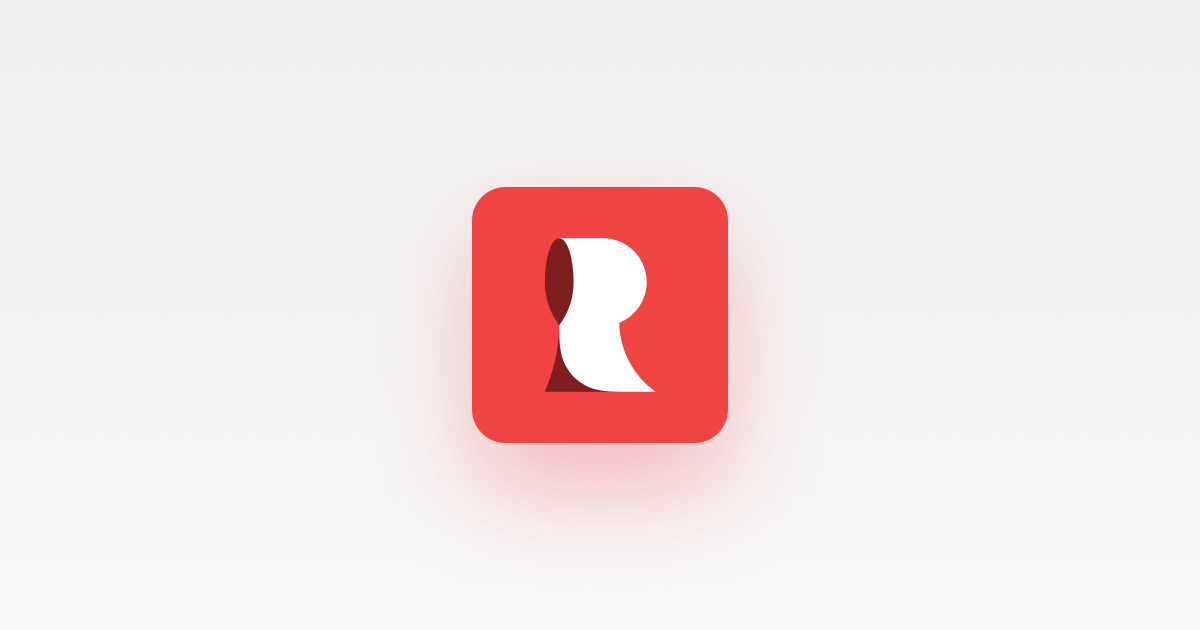
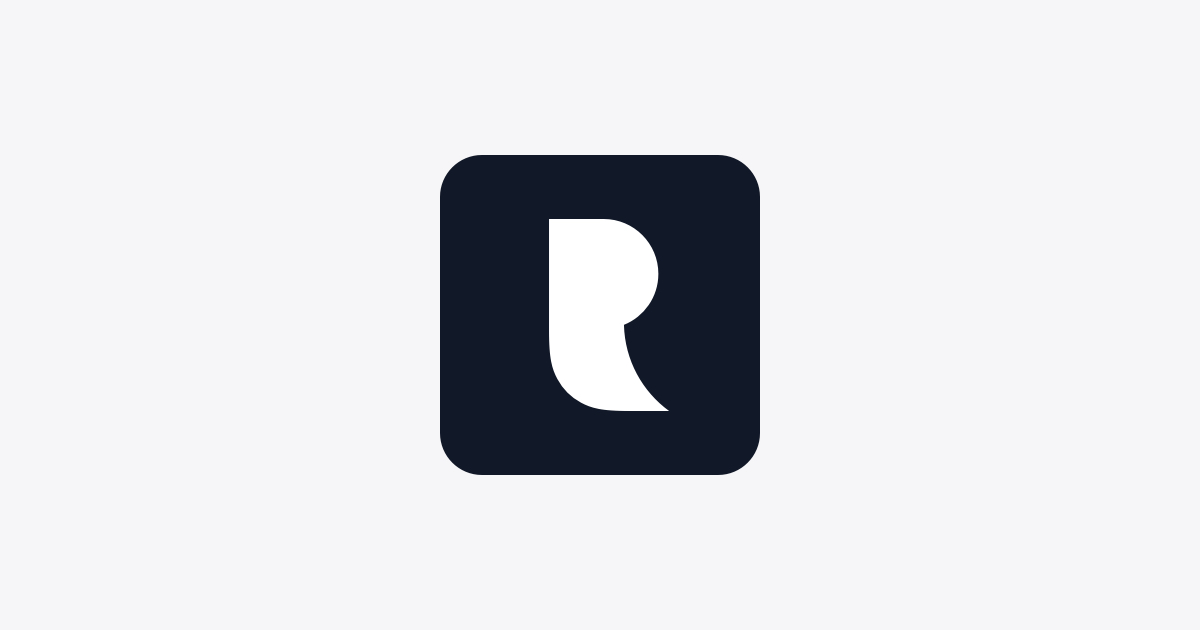
update the og image (#78)
* update the og image

* fix fallback site origin

Changed region(s): [[0.3392, 0.2413, 0.6475, 0.8143]]

diff --git a/utils/getOrigin.ts b/utils/getOrigin.ts
@@ -1,3 +1,5 @@
 export function getOrigin(): string {
-  return typeof location === 'undefined' ? 'https://redd.one' : location.origin
+  return typeof location === 'undefined'
+    ? 'https://kettanaito.com'
+    : location.origin
 }
